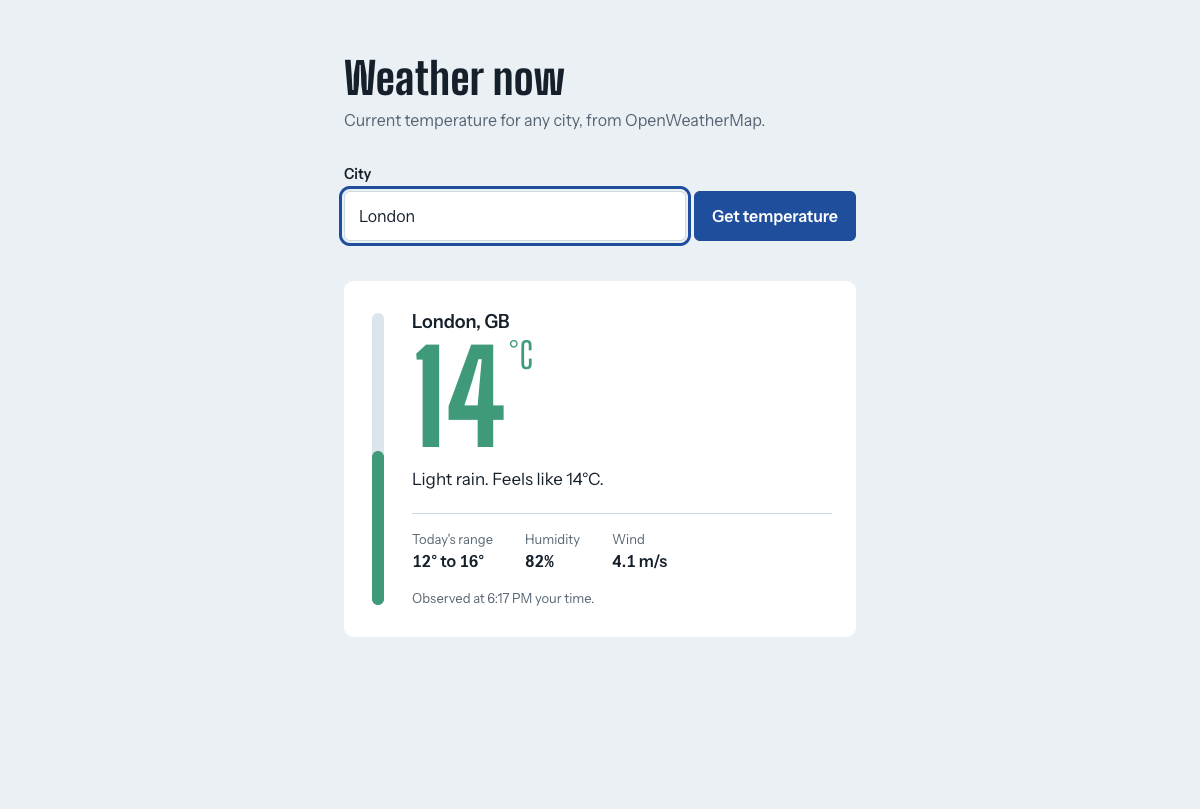
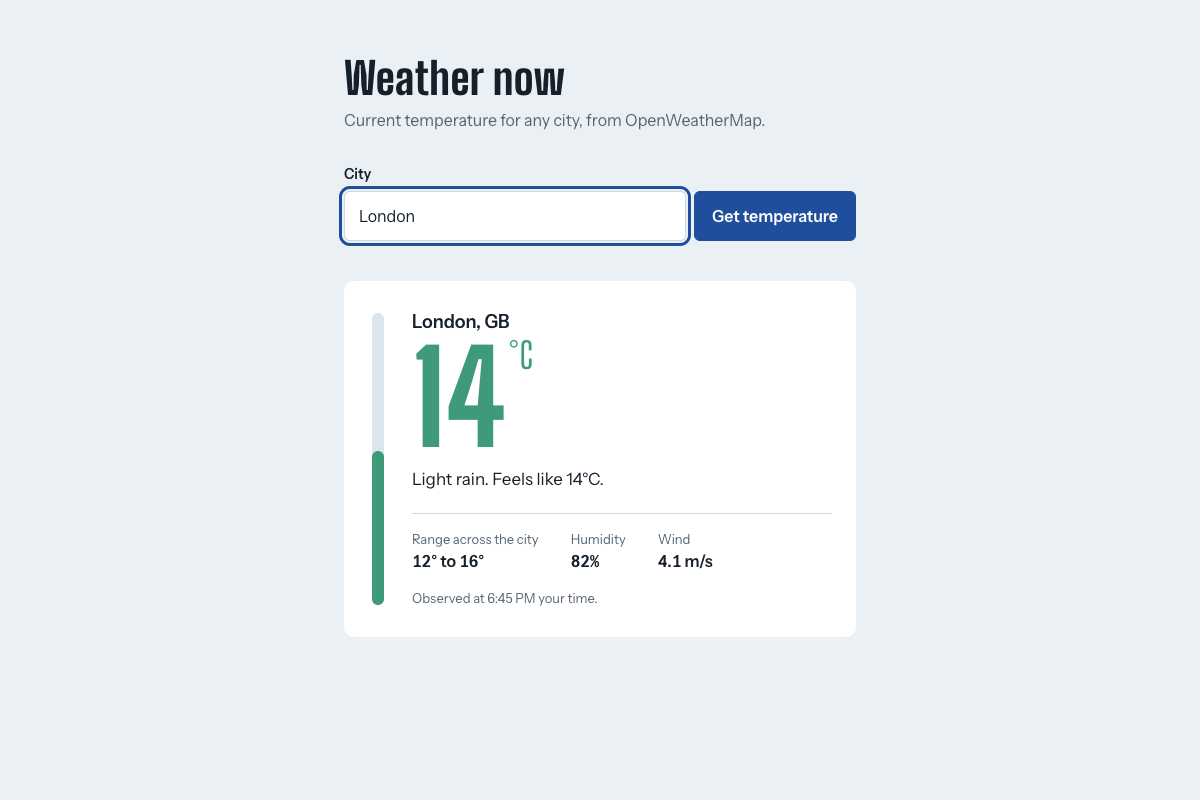
fix(project-8): release upstream connections and handle malformed responses
- Cancel the response body on OpenWeatherMap errors so pooled sockets
  are freed instead of waiting for garbage collection.
- A 200 response that isn't weather JSON now returns 502, matching the
  README, instead of a generic 500.
- Relabel temp_min/temp_max as 'Range across the city': in the current
  weather API they are the current spread across stations, not the
  day's low/high.

diff --git a/Project_8_API/weather-app/src/weatherService.js b/Project_8_API/weather-app/src/weatherService.js
@@ -29,30 +29,41 @@ export async function getCurrentWeather(city, { apiKey, baseUrl = DEFAULT_BASE_U
     throw new WeatherError('Could not reach OpenWeatherMap. Check your connection and try again.', 502);
   }
 
-  if (response.status === 404) {
-    throw new WeatherError(`No city named "${city}" was found. Check the spelling, or add a country code (e.g. "Paris, FR").`, 404);
-  }
-  if (response.status === 401) {
-    throw new WeatherError('OpenWeatherMap rejected the API key. New keys can take up to 2 hours to activate.', 502);
-  }
-  if (response.status === 429) {
-    throw new WeatherError('OpenWeatherMap rate limit reached. Wait a minute and try again.', 503);
-  }
   if (!response.ok) {
-    throw new WeatherError(`OpenWeatherMap returned an error (HTTP ${response.status}).`, 502);
+    // Discard the body: an unread response keeps its pooled connection busy until garbage collection.
+    await response.body?.cancel().catch(() => {});
+    throw upstreamError(response.status, city);
   }
 
-  const data = await response.json();
-  return {
-    city: data.name,
-    country: data.sys?.country ?? '',
-    temperature: data.main.temp,
-    feelsLike: data.main.feels_like,
-    tempMin: data.main.temp_min,
-    tempMax: data.main.temp_max,
-    humidity: data.main.humidity,
-    windSpeed: data.wind?.speed ?? null,
-    description: data.weather?.[0]?.description ?? '',
-    observedAt: new Date(data.dt * 1000).toISOString(),
-  };
+  try {
+    const data = await response.json();
+    return {
+      city: data.name,
+      country: data.sys?.country ?? '',
+      temperature: data.main.temp,
+      feelsLike: data.main.feels_like,
+      tempMin: data.main.temp_min,
+      tempMax: data.main.temp_max,
+      humidity: data.main.humidity,
+      windSpeed: data.wind?.speed ?? null,
+      description: data.weather?.[0]?.description ?? '',
+      observedAt: new Date(data.dt * 1000).toISOString(),
+    };
+  } catch {
+    // Not JSON (e.g. a proxy error page) or not the shape we expect.
+    throw new WeatherError('OpenWeatherMap sent an unexpected response. Try again in a moment.', 502);
+  }
+}
+
+function upstreamError(status, city) {
+  if (status === 404) {
+    return new WeatherError(`No city named "${city}" was found. Check the spelling, or add a country code (e.g. "Paris, FR").`, 404);
+  }
+  if (status === 401) {
+    return new WeatherError('OpenWeatherMap rejected the API key. New keys can take up to 2 hours to activate.', 502);
+  }
+  if (status === 429) {
+    return new WeatherError('OpenWeatherMap rate limit reached. Wait a minute and try again.', 503);
+  }
+  return new WeatherError(`OpenWeatherMap returned an error (HTTP ${status}).`, 502);
 }

diff --git a/Project_8_API/weather-app/test/weatherService.test.js b/Project_8_API/weather-app/test/weatherService.test.js
@@ -58,3 +58,27 @@ test('reports a 502 when OpenWeatherMap cannot be reached', async () => {
   };
   await assert.rejects(getCurrentWeather('London', { apiKey: 'k', fetchImpl }), { status: 502 });
 });
+
+test('releases the upstream connection when OpenWeatherMap returns an error', async () => {
+  let cancelled = false;
+  const body = new ReadableStream({ cancel() { cancelled = true; } });
+  const fetchImpl = async () => new Response(body, { status: 404 });
+  await assert.rejects(getCurrentWeather('Atlantis', { apiKey: 'k', fetchImpl }), { status: 404 });
+  assert.equal(cancelled, true);
+});
+
+test('reports a 502 when OpenWeatherMap sends something other than weather JSON', async (t) => {
+  const bodies = {
+    'an HTML page': '<html>Captive portal</html>',
+    'JSON without weather fields': '{"cod":200}',
+  };
+  for (const [name, text] of Object.entries(bodies)) {
+    await t.test(name, async () => {
+      const fetchImpl = async () => new Response(text, { status: 200 });
+      await assert.rejects(getCurrentWeather('London', { apiKey: 'k', fetchImpl }), {
+        status: 502,
+        message: /unexpected response/,
+      });
+    });
+  }
+});

diff --git a/Project_8_API/weather-app/public/index.html b/Project_8_API/weather-app/public/index.html
@@ -39,7 +39,7 @@
         <p class="temp"><span class="value"></span><span class="unit">°C</span></p>
         <p class="summary"></p>
         <dl class="facts">
-          <div><dt>Today's range</dt><dd class="range"></dd></div>
+          <div><dt>Range across the city</dt><dd class="range"></dd></div>
           <div><dt>Humidity</dt><dd class="humidity"></dd></div>
           <div><dt>Wind</dt><dd class="wind"></dd></div>
         </dl>

diff --git a/Project_8_API/weather-app/README.md b/Project_8_API/weather-app/README.md
@@ -44,13 +44,15 @@ Requires Node.js 22.9 or later.
 }
 ```
 
+`tempMin`/`tempMax` are the spread of temperatures being observed across the city right now (as OpenWeatherMap defines them), not the day's forecast low/high.
+
 | Status | When |
 |--------|------|
 | 200 | Weather found |
 | 400 | City missing or longer than 100 characters |
 | 404 | OpenWeatherMap does not know the city |
 | 500 | `OPENWEATHER_API_KEY` is not set |
-| 502 / 503 | OpenWeatherMap is unreachable, rejected the key, or rate-limited the request |
+| 502 / 503 | OpenWeatherMap is unreachable, rejected the key, rate-limited the request, or sent an unexpected response |
 
 Errors are returned as `{ "error": "message" }`.
 
